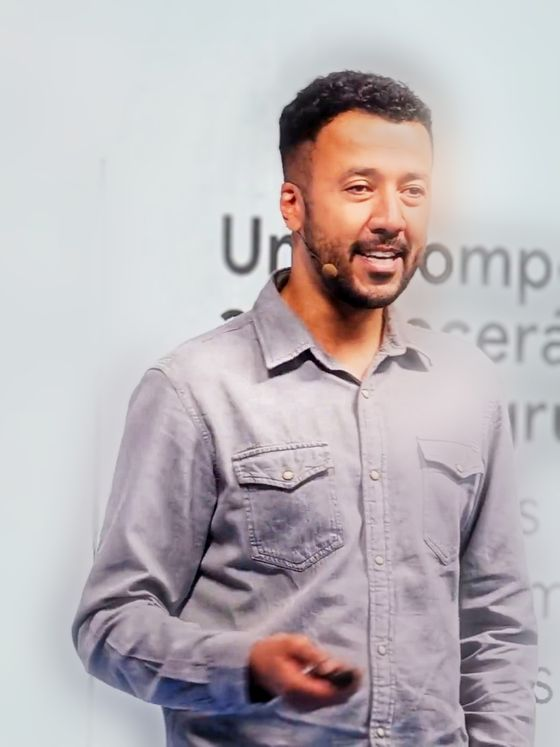
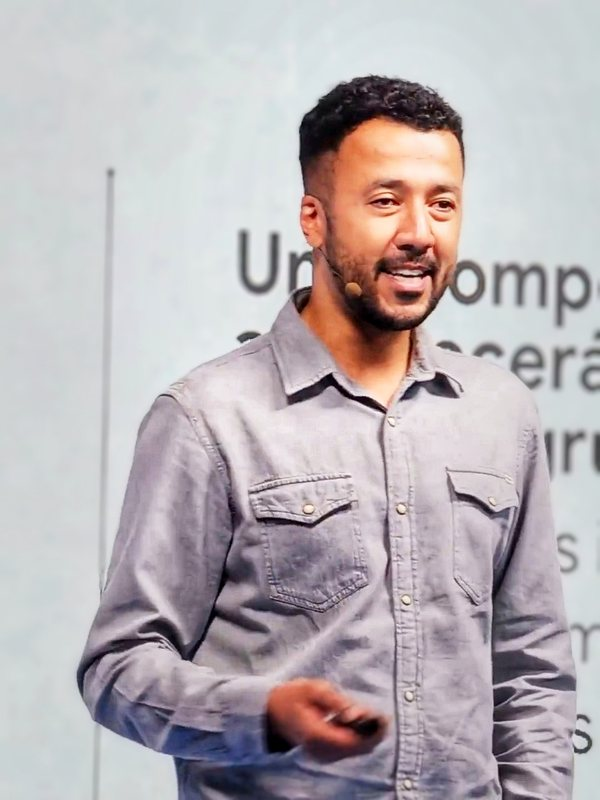
Add files via upload

diff --git a/index.html b/index.html
@@ -106,16 +106,16 @@ h1 em{font-style:italic;color:var(--blue)}
 .spk-inner h2{color:var(--white);margin-bottom:10px}
 .spk-inner h2 em{color:rgba(255,255,255,.45)}
 .spk-sub{font-size:17px;color:rgba(255,255,255,.55);font-weight:300;line-height:1.65;margin-bottom:44px;max-width:540px}
-.spk-photos{display:grid;grid-template-columns:1.2fr 1fr 1fr;gap:16px}
-.spk-ph{border-radius:var(--r-lg);overflow:hidden;aspect-ratio:3/4;position:relative;background:rgba(255,255,255,.06)}
-.spk-ph img{width:100%;height:100%;object-fit:cover;object-position:center top;display:block;transition:transform .4s}
+.spk-photos{display:grid;grid-template-columns:1fr 1fr 1fr;gap:3px;align-items:end}
+.spk-ph{overflow:hidden;position:relative;height:520px}
+.spk-ph img{width:100%;height:100%;object-fit:cover;object-position:center bottom;display:block;transition:transform .4s;filter:none}
 .spk-ph:hover img{transform:scale(1.03)}
-.spk-label{position:absolute;bottom:12px;left:12px;right:12px;background:rgba(0,0,0,.5);backdrop-filter:blur(6px);-webkit-backdrop-filter:blur(6px);border-radius:6px;padding:8px 11px;font-size:12px;color:rgba(255,255,255,.88)}
+.spk-label{position:absolute;bottom:0;left:0;right:0;background:linear-gradient(to top,rgba(0,0,0,0.55),transparent);padding:32px 16px 14px;font-size:12px;color:rgba(255,255,255,.9);letter-spacing:.02em}
 
 /* ABOUT */
 #about{background:var(--white)}
 .about-grid{display:grid;grid-template-columns:1fr 1.3fr;gap:72px;align-items:start;margin-top:12px}
-.about-photo{width:100%;border-radius:var(--r-xl);object-fit:cover;object-position:center 15%;display:block;aspect-ratio:3/4;box-shadow:var(--sh-lg)}
+.about-photo{width:100%;object-fit:cover;object-position:center 10%;display:block;aspect-ratio:3/4}
 .about-text p{font-size:16px;line-height:1.75;color:var(--muted);margin-bottom:16px;font-weight:300}
 .about-text p strong{color:var(--text);font-weight:500}
 .ap{display:flex;flex-wrap:wrap;gap:9px;margin-top:24px}
@@ -187,6 +187,7 @@ footer{background:var(--text);color:rgba(255,255,255,.4);padding:40px 5%}
   .services-grid{grid-template-columns:1fr}
   .results-grid{grid-template-columns:1fr 1fr}
   .spk-photos{grid-template-columns:1fr}
+  .spk-ph{height:380px}
   .spk-photos .spk-ph:not(:first-child){display:none}
   .fr{grid-template-columns:1fr}
 }
@@ -377,7 +378,7 @@ footer{background:var(--text);color:rgba(255,255,255,.4);padding:40px 5%}
         <p>Tell me what you're working on — I'll tell you honestly whether I can help and what that looks like. No commitments, no sales pitch, no wasted time.</p>
         <p style="font-size:14px;color:var(--hint);font-weight:300">I work with clients globally and respond within 24 hours.</p>
         <div class="cd">
-          <div class="cd-item"><svg viewBox="0 0 24 24" fill="none" stroke="currentColor" stroke-width="1.8"><path d="M4 4h16c1.1 0 2 .9 2 2v12c0 1.1-.9 2-2 2H4c-1.1 0-2-.9-2-2V6c0-1.1.9-2 2-2z"/><polyline points="22,6 12,13 2,6"/></svg><a href="mailto:luizhsousa@gmail.com">luizhsousa@gmail.com</a></div>
+          <div class="cd-item"><svg viewBox="0 0 24 24" fill="none" stroke="currentColor" stroke-width="1.8"><path d="M4 4h16c1.1 0 2 .9 2 2v12c0 1.1-.9 2-2 2H4c-1.1 0-2-.9-2-2V6c0-1.1.9-2 2-2z"/><polyline points="22,6 12,13 2,6"/></svg><a href="/cdn-cgi/l/email-protection#48243d2132203b273d3b29082f25292124662b2725"><span class="__cf_email__" data-cfemail="58342d3122302b372d2b39183f35393134763b3735">[email&#160;protected]</span></a></div>
           <div class="cd-item"><svg viewBox="0 0 24 24" fill="none" stroke="currentColor" stroke-width="1.8"><path d="M16 8a6 6 0 016 6v7h-4v-7a2 2 0 00-2-2 2 2 0 00-2 2v7h-4v-7a6 6 0 016-6z"/><rect x="2" y="9" width="4" height="12"/><circle cx="4" cy="4" r="2"/></svg><a href="https://www.linkedin.com/in/luizdesousa" target="_blank">linkedin.com/in/luizdesousa</a></div>
           <div class="cd-item"><svg viewBox="0 0 24 24" fill="none" stroke="currentColor" stroke-width="1.8"><path d="M21 10c0 7-9 13-9 13s-9-6-9-13a9 9 0 0118 0z"/><circle cx="12" cy="10" r="3"/></svg><span>Brazil · Ireland · Global · Remote</span></div>
         </div>
@@ -429,7 +430,7 @@ footer{background:var(--text);color:rgba(255,255,255,.4);padding:40px 5%}
   </div>
 </footer>
 
-<script>
+<script data-cfasync="false" src="/cdn-cgi/scripts/5c5dd728/cloudflare-static/email-decode.min.js"></script><script>
 const obs=new IntersectionObserver(entries=>{
   entries.forEach(e=>{
     if(e.isIntersecting){
@@ -456,11 +457,4 @@ function doSend(){
   if(!name||!email){alert('Please fill in your name and email.');return;}
   const btn=document.getElementById('sbtn');
   btn.textContent='✓ Sent — I\'ll be in touch soon';
-  btn.style.background='#22c55e';btn.style.pointerEvents='none';
-  setTimeout(()=>{
-    window.location.href=`mailto:luizhsousa@gmail.com?subject=Enquiry – ${type}&body=Hi Luiz,%0A%0A${encodeURIComponent(msg)}%0A%0A– ${encodeURIComponent(name)}`;
-  },500);
-}
-</script>
-</body>
-</html>
+  btn.style.background='#22c55e';btn.style.p
